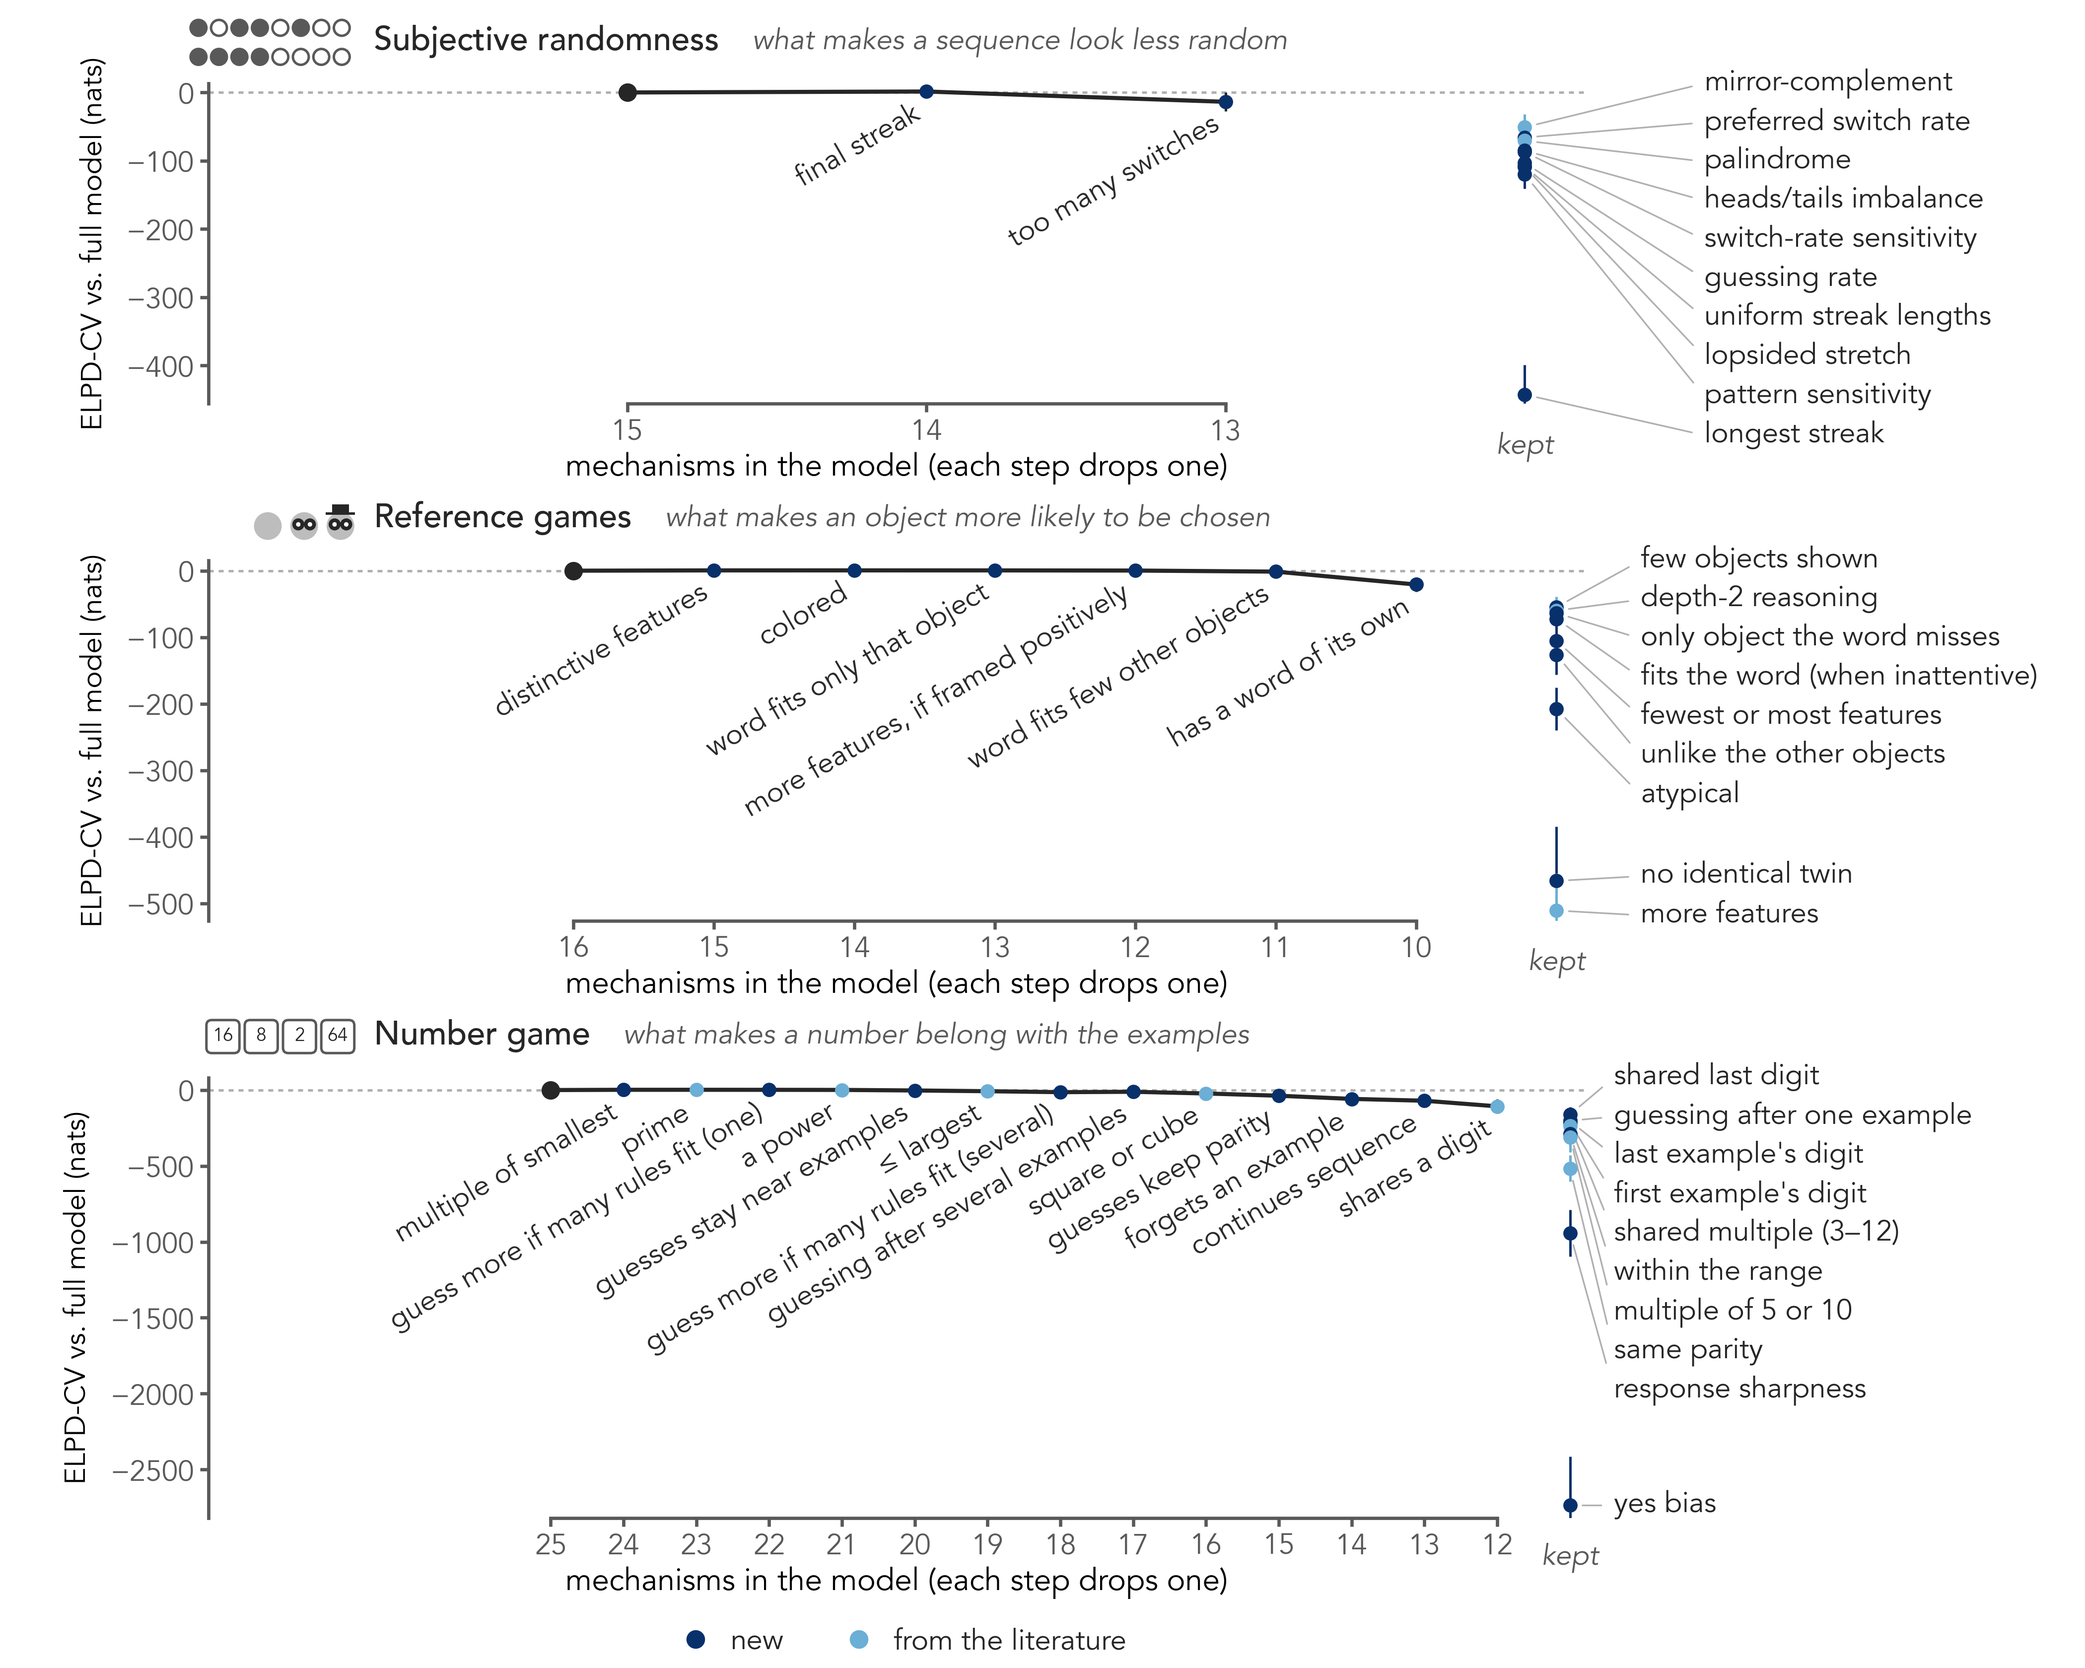
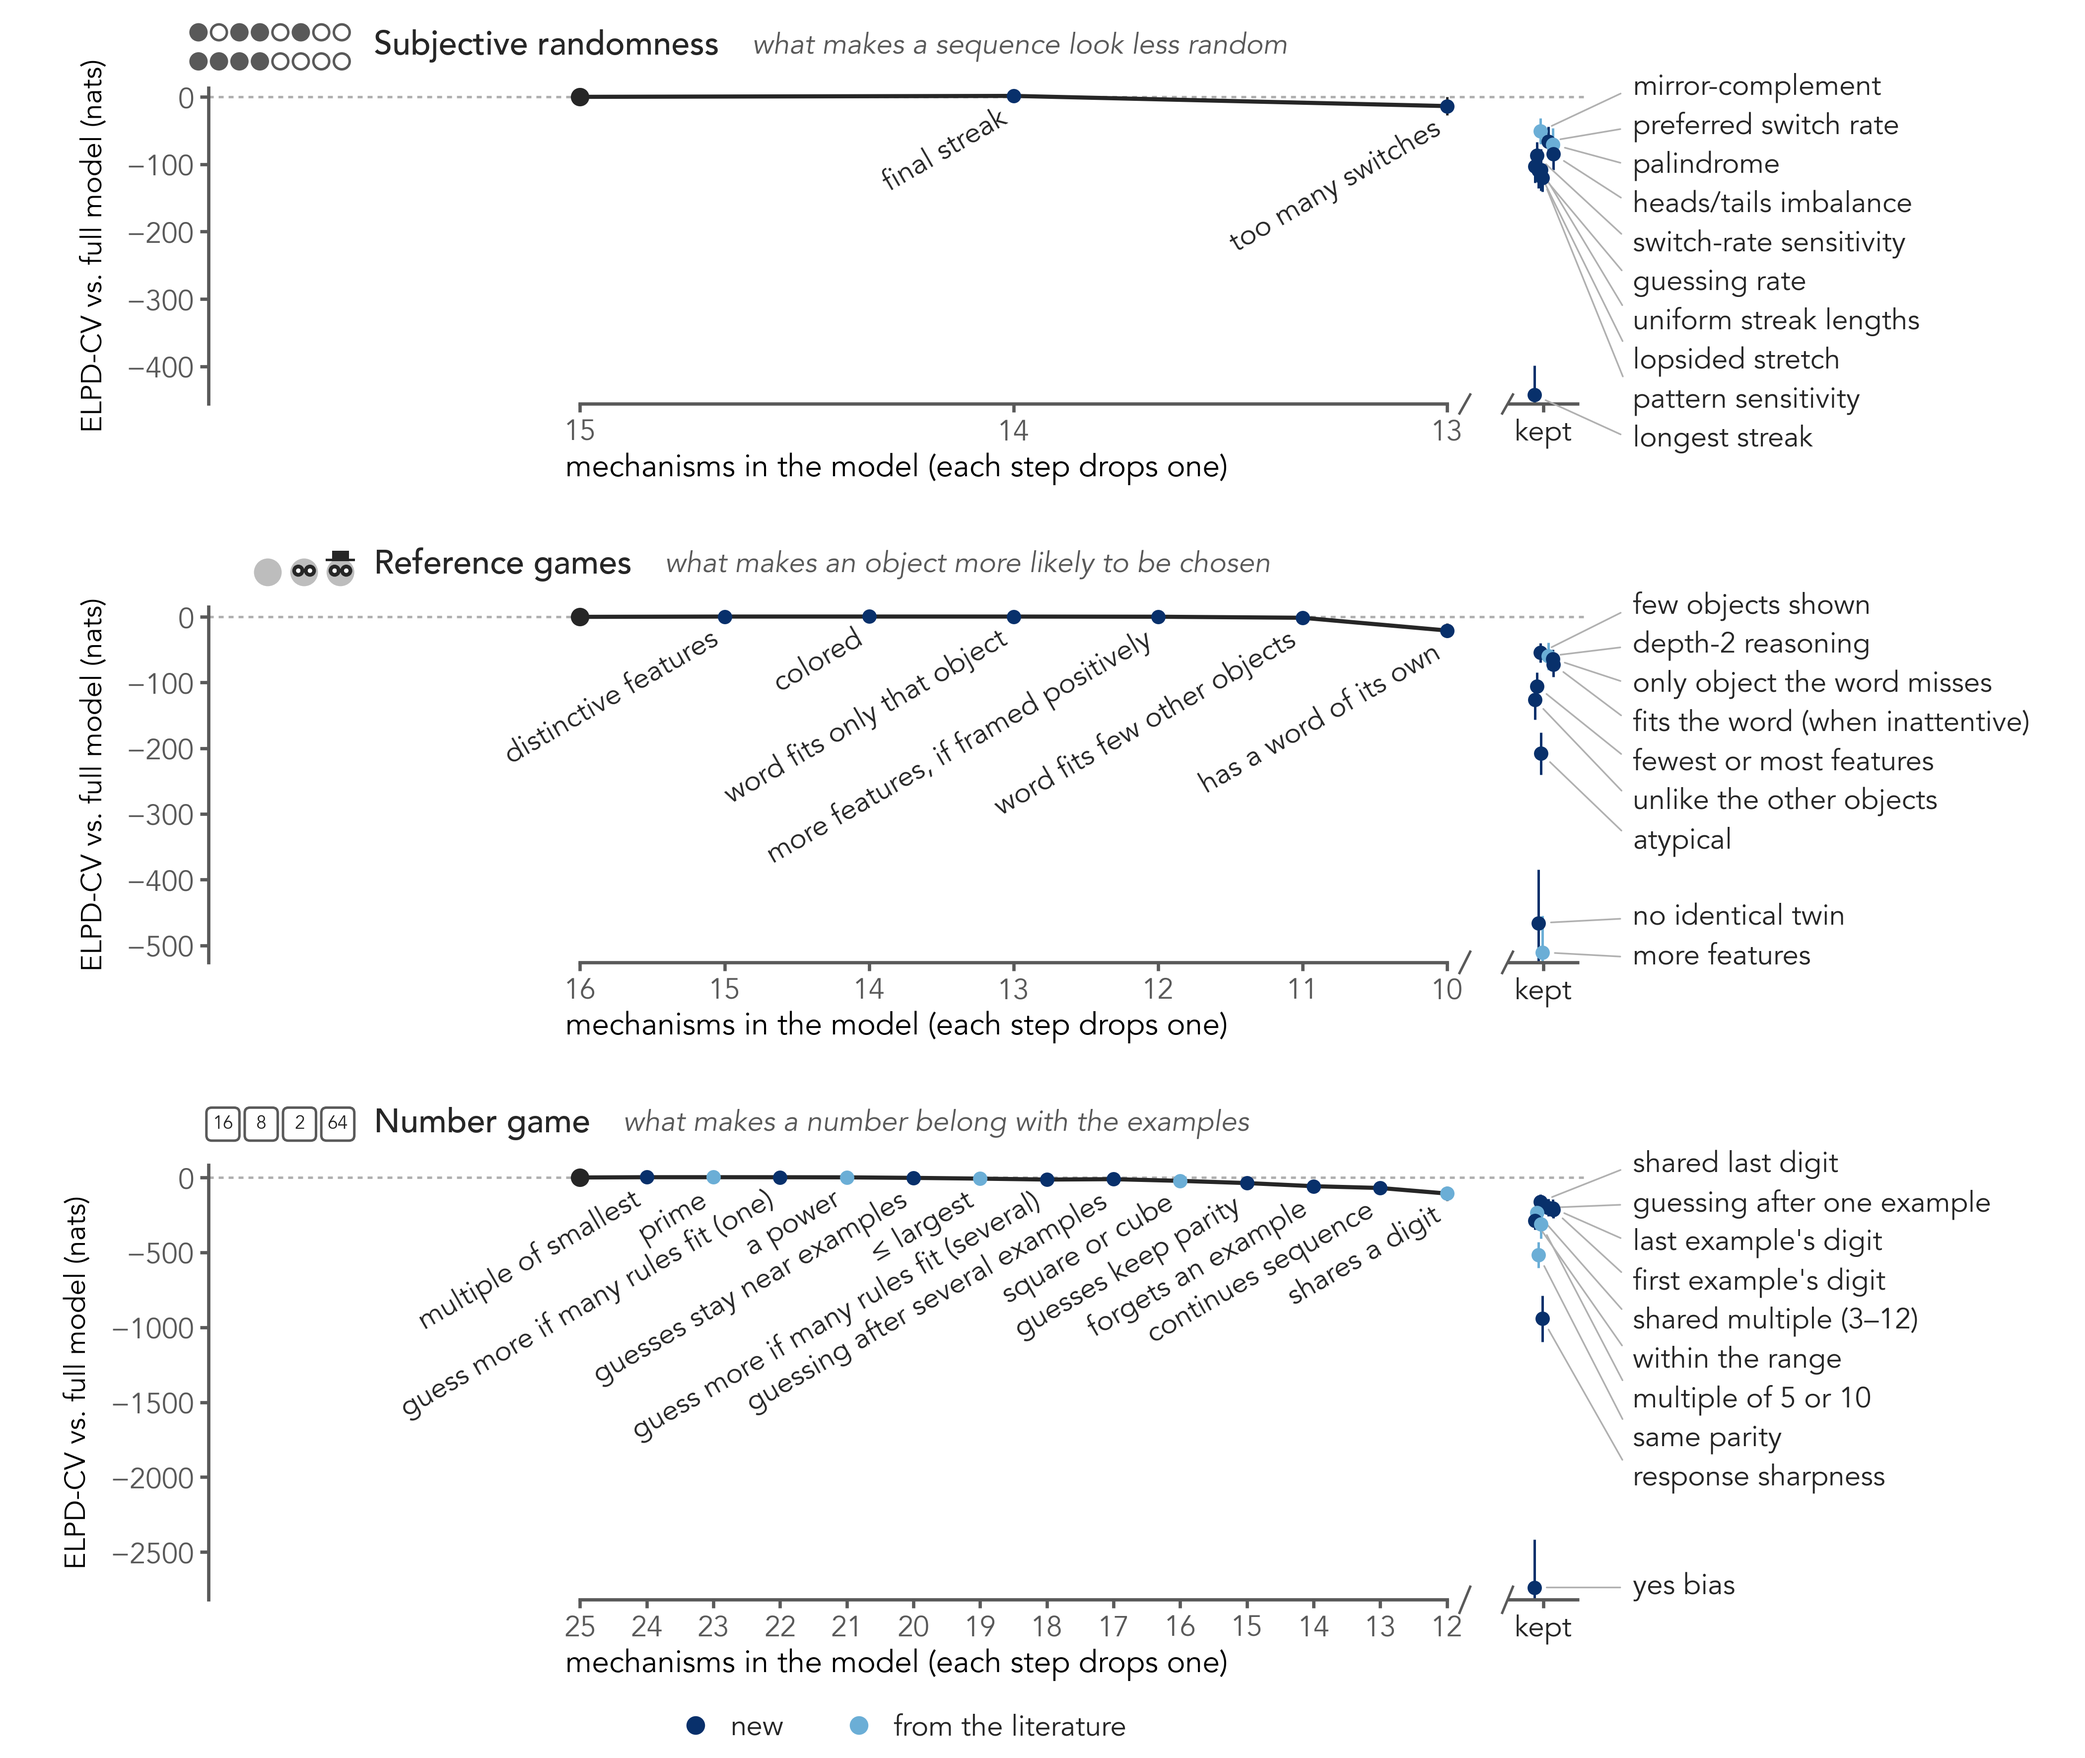
Figure 4 draft: more space between panels; 'kept' as an x tick after an axis break; jittered kept points; the column, break and spread the same size in every panel

diff --git a/data/paper/work/fig4_draft/fig4_draft.py b/data/paper/work/fig4_draft/fig4_draft.py
@@ -21,8 +21,10 @@ from scripts.paper.figures.style import INK, INK_2, TITLE_FONT, TITLES, setup_st
 
 OUT = here() / "data" / "paper" / "work" / "fig4_draft"
 COLOR_NEW, COLOR_START, PATH = "#08306b", "#6baed6", "#262626"
-NAME_PT, SMALL = 7.0, 7.0  # PNAS: no text under 6 pt at the printed size
-WIDTH_IN, HEIGHT_IN, DPI = 7.0, 5.6, 600  # one row per domain  # the saved figure: PNAS's full width
+NAME_PT, SMALL = 7.0, 7.0
+JITTER_IN, BREAK_IN, NAMES_IN = 0.035, 0.06, 0.3  # the kept points' spread, the break's half-gap, the names' offset
+LEFT, COLUMN, COLUMN_AT = 0.27, 0.1, 0.07  # shares of each axis: room for the first name, past the path, to the column  # PNAS: no text under 6 pt at the printed size
+WIDTH_IN, HEIGHT_IN, DPI = 7.0, 5.9, 600  # one row per domain  # the saved figure: PNAS's full width
 # each panel's cues are named by what pushes its response this way (the fitted signs: mechanisms.yaml)
 DIRECTION = {"subjective_randomness": "what makes a sequence look less random",
              "rsa": "what makes an object more likely to be chosen",
@@ -82,43 +84,51 @@ def draw(ax, elimination, names):
                     fontsize=NAME_PT, ha="right", va="center", rotation_mode="anchor", **text)
     ax.scatter([n[0]], [0], s=12, color=PATH, zorder=4)
     # the options at the end: every kept mechanism's removal, each at least 2 SE
-    xo = lean_n - 1
+    # the kept column a fixed distance past the path (in inches, the same in every panel): the panels' widths are
+    # equal, so a fixed share of each one's span is the same length
+    span = (n[0] - lean_n) / (1 - LEFT - COLUMN)  # the axis's span, in steps
+    xo = lean_n - COLUMN_AT * span
     ax.axhline(0, color="#b0b0b0", lw=0.6, ls=(0, (2, 2)), zorder=0)  # the full model
+    ax.set_xlim(n[0] + LEFT * span, lean_n - COLUMN * span)  # room left for the first step's name
+    per_in = abs(np.diff(ax.get_xlim())[0]) / (ax.get_position().width * ax.figure.get_figwidth())  # steps per inch
     labels = []
-    for c, yo in zip(options, opt_y):
+    jitter = np.random.default_rng(0).uniform(-1, 1, len(options)) * JITTER_IN * per_in  # fixed: the same every run
+    for c, yo, dx in zip(options, opt_y, jitter):
         name, color, text = style_of(names, c["mechanism"])
-        ax.errorbar([xo], [yo], yerr=[c["se_vs_start"]], fmt="none", ecolor=color, elinewidth=0.6, zorder=2)
-        ax.scatter([xo], [yo], s=12, color=color, linewidths=0, zorder=4)
-        labels.append((yo, name, text, yo))
+        ax.errorbar([xo + dx], [yo], yerr=[c["se_vs_start"]], fmt="none", ecolor=color, elinewidth=0.6, zorder=2)
+        ax.scatter([xo + dx], [yo], s=12, color=color, linewidths=0, zorder=4)
+        labels.append((yo, name, text, (xo + dx, yo)))
     # the options' names in a column right of them, spread apart, a leader to each
     ax.set_ylim(lo - 0.03 * abs(lo), 0.03 * abs(lo))
-    ax.set_xlim(n[0] + 0.5 + 0.3 * (n[0] - xo), xo - 0.2)  # room left for the first step's name
     fig = ax.figure
     fig.canvas.draw()
     to_data = ax.transData.inverted()
     per_pt = abs(to_data.transform((0, 0))[1] - to_data.transform((0, NAME_PT * 1.35 * fig.dpi / 72))[1])
-    # what the path dropped and what the column kept, labelled above each
-    note = {"fontsize": NAME_PT, "color": INK_2, "style": "italic"}
-    # both on the x tick labels' line: "dropped" ends the path's, "kept" sits under the column
-    ax.annotate("kept", (xo, lo), xytext=(0, -9), textcoords="offset points", ha="center", va="top",
-                annotation_clip=False, **note)
     labels.sort(key=lambda t: -t[0])
     placed = spread([yo for yo, *_ in labels], per_pt)
     cap = ax.get_ylim()[1]  # never above the panel: push the top labels down, then their neighbours
     for k, yt in enumerate(placed):
         placed[k] = min(yt, cap if k == 0 else placed[k - 1] - per_pt)
     for (yo, name, text, at), yt in zip(labels, placed):
-        ax.annotate(name, (xo, at), xytext=(xo - 0.6, yt), ha="left", va="center", fontsize=NAME_PT, **text,
+        ax.annotate(name, at, xytext=(xo - NAMES_IN * per_in, yt), ha="left", va="center", fontsize=NAME_PT, **text,
                     annotation_clip=False, arrowprops={"arrowstyle": "-", "color": "#b0b0b0", "lw": 0.4,
                                                          "shrinkA": 1, "shrinkB": 3, "relpos": (0, 0.5)})
-    ax.set_xticks(n)
+    # the x axis: the path's counts, a break, then "kept" under the kept column on its own stretch of axis
+    ax.set_xticks(n + [xo], [str(v) for v in n] + ["kept"])
+    ax.get_xticklabels()[-1].set(fontsize=SMALL + 0.5, color=INK)
     ax.tick_params(labelsize=SMALL, length=2, pad=1.5)
     ax.set_xlabel("mechanisms in the model (each step drops one)", fontsize=SMALL + 0.5, labelpad=1)
     ax.spines["bottom"].set_bounds(n[0], lean_n)
+    base = ax.get_xaxis_transform()  # x in data, y in axes fractions
+    gap = BREAK_IN * per_in
+    ax.plot([xo + 2 * gap, xo - 2 * gap], [0, 0], transform=base, color=ax.spines["bottom"].get_edgecolor(),
+            lw=ax.spines["bottom"].get_linewidth(), clip_on=False, solid_capstyle="butt")
+    for xb in (lean_n - gap, xo + 2 * gap):  # the break: a short slash at each end of the gap
+        ax.plot([xb + 0.3 * gap, xb - 0.3 * gap], [-0.03, 0.03], transform=base, color=INK_2, lw=0.6, clip_on=False)
 
 
 def figure(canvas_in, names, src):
-    fig, axes = plt.subplots(3, 1, figsize=(canvas_in, HEIGHT_IN), dpi=DPI, gridspec_kw={"hspace": 0.42, "height_ratios": [0.8, 0.9, 1.1]})
+    fig, axes = plt.subplots(3, 1, figsize=(canvas_in, HEIGHT_IN), dpi=DPI, gridspec_kw={"hspace": 0.55, "height_ratios": [0.8, 0.9, 1.1]})
     fig.subplots_adjust(left=0.1, right=0.76, top=0.95, bottom=0.09)  # the options' names to the right
     for ax, d in zip(axes, TITLES):
         draw(ax, json.loads(src[d].read_text()), names[d])
